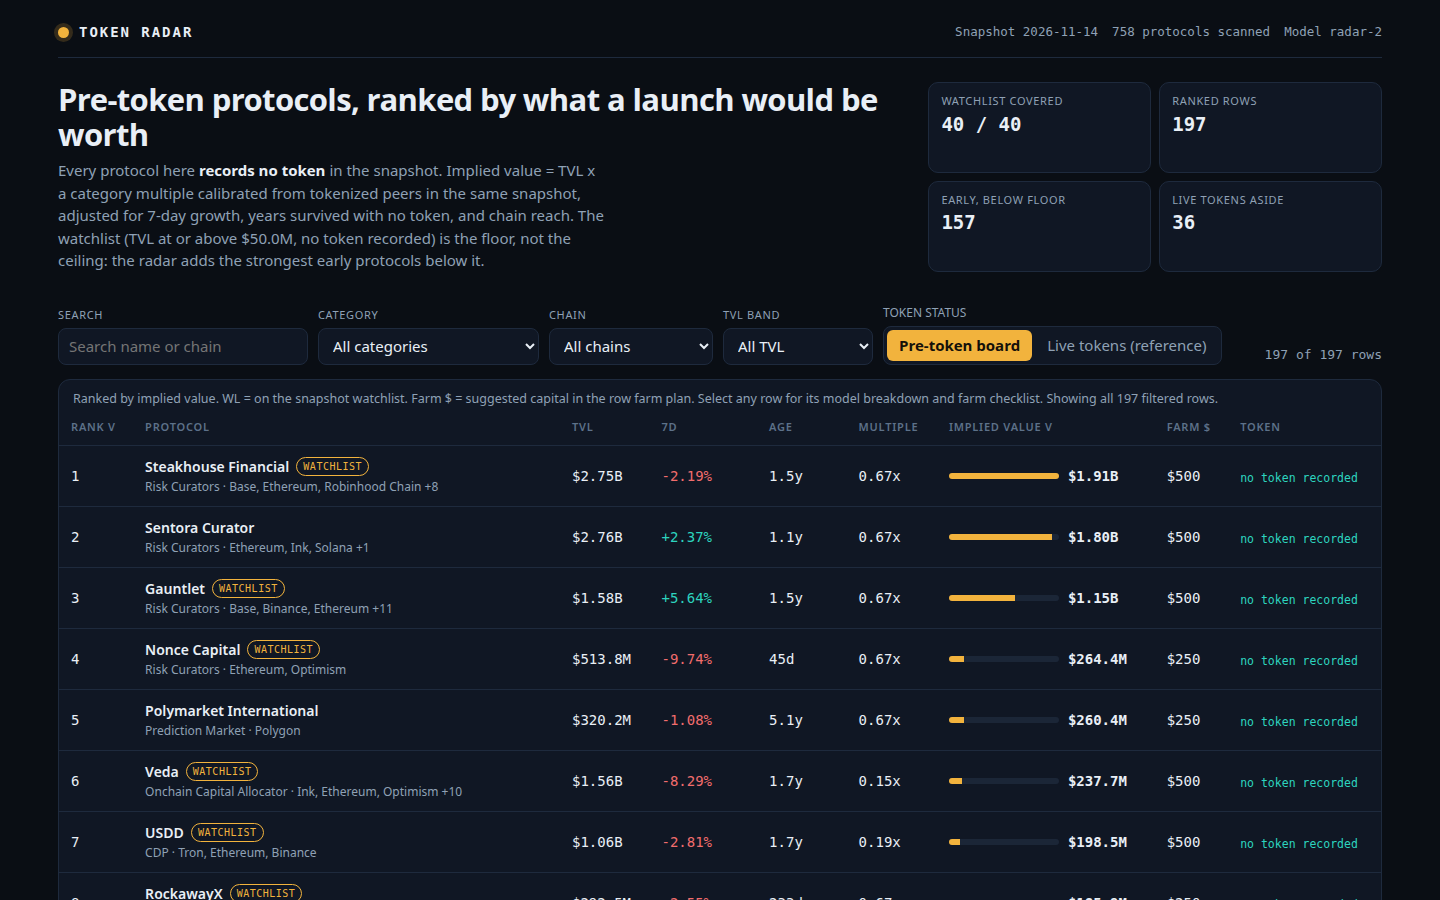
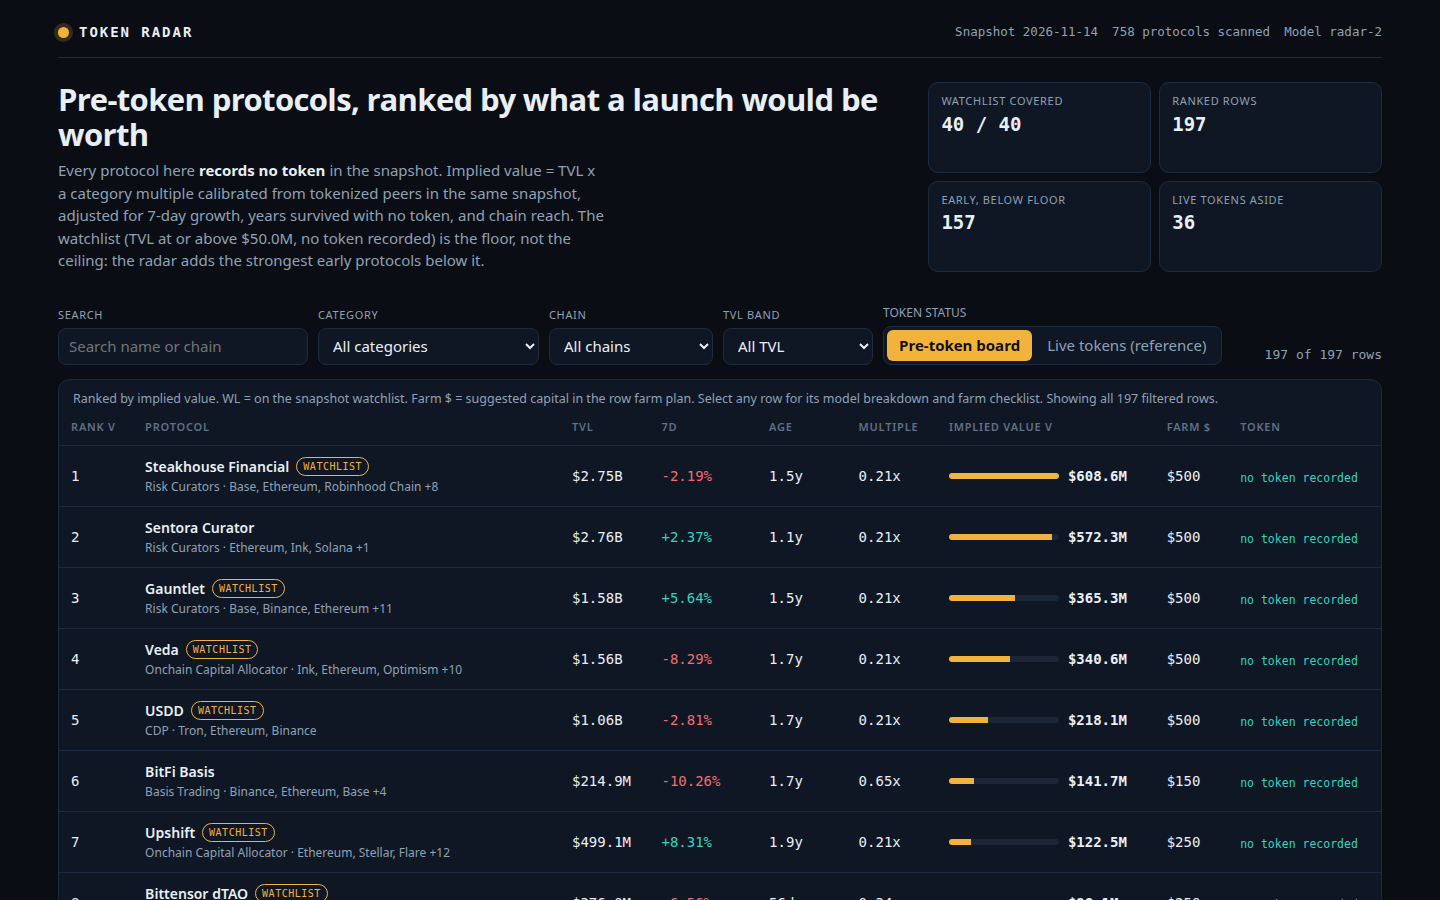
Anti-outlier minimum sample (5 peers, global fallback), variant farm plans, NaN guard

diff --git a/lib/model.ts b/lib/model.ts
@@ -13,9 +13,12 @@
 //    compute mcap / TVL for each, winsorize each ratio into [0.02, 2.50] so a
 //    single absurd print (a 400x prediction-market outlier, a 19x locker)
 //    cannot poison a whole category, and take the median. A category needs at
-//    least MIN_PEERS (4) tokenized peers for its own median; with fewer, the
-//    model falls back to the global winsorized median across all tokenized
-//    protocols, blended 50/50 with the category median when 1-3 peers exist.
+//    least MIN_PEERS (5) tokenized peers for its own median; with fewer than
+//    5, the category's own median is NOT used at all — the model falls back
+//    to the global winsorized median across all tokenized protocols. A
+//    category priced by one or two lucky peers is how a board ends up
+//    claiming a curator is worth 2.9x its TVL; the minimum sample exists to
+//    make that impossible.
 //    The final multiple is clamped into [0.05, 1.50]: a pre-token launch is
 //    not credibly worth more than 1.5x the TVL already locked in it, and no
 //    live category in this snapshot medians below 0.05.
@@ -74,7 +77,7 @@ const RATIO_FLOOR = 0.02;
 const RATIO_CAP = 2.5;
 const MULT_FLOOR = 0.05;
 const MULT_CAP = 1.5;
-const MIN_PEERS = 4;
+const MIN_PEERS = 5;
 const GROWTH_FLOOR = -40;
 const GROWTH_CAP = 80;
 const GROWTH_WEIGHT = 0.6;
@@ -115,13 +118,18 @@ export interface CategoryMultiple {
   category: string;
   multiple: number;
   peers: number;
-  source: 'category' | 'blend' | 'global';
+  source: 'category' | 'global';
 }
 
 /** The calibration table: one entry per category that appears on the board. */
+/** If a snapshot carried no tokenized protocol at all, calibration has no
+ *  evidence; this documented constant (near this snapshot's real global
+ *  median) is used rather than letting a median of zero values become NaN. */
+const NO_PEERS_FALLBACK = 0.2;
+
 export function calibrateMultiples(protocols: SnapshotProtocol[]): Map<string, CategoryMultiple> {
   const tokenized = protocols.filter((p) => p.mcap_usd !== null && p.mcap_usd > 0 && p.tvl_usd > 0);
-  const globalMedian = median(tokenized.map((p) => clamp(p.mcap_usd! / p.tvl_usd, RATIO_FLOOR, RATIO_CAP)));
+  const globalMedian = tokenized.length > 0 ? median(tokenized.map((p) => clamp(p.mcap_usd! / p.tvl_usd, RATIO_FLOOR, RATIO_CAP))) : NO_PEERS_FALLBACK;
   const byCategory = new Map<string, number[]>();
   for (const p of tokenized) {
     const key = p.category ?? 'Uncategorised';
@@ -138,13 +146,10 @@ export function calibrateMultiples(protocols: SnapshotProtocol[]): Map<string, C
     if (ratios.length >= MIN_PEERS) {
       multiple = median(ratios);
       source = 'category';
-    } else if (ratios.length >= 1) {
-      // Shrinkage: a category with 1-3 tokenized peers is weak evidence, so
-      // its median is weighted by its peer count against MIN_PEERS parts of
-      // the global median. One lucky peer can no longer set a category price.
-      multiple = (ratios.length * median(ratios) + MIN_PEERS * globalMedian) / (ratios.length + MIN_PEERS);
-      source = 'blend';
     } else {
+      // Minimum-sample rule: fewer than MIN_PEERS tokenized peers means the
+      // category's own median is not evidence, so it is not used — not even
+      // blended. The global winsorized median prices the category instead.
       multiple = globalMedian;
       source = 'global';
     }
@@ -365,10 +370,32 @@ function actionsFor(p: SnapshotProtocol, capital: number, chainLabel: string): C
   };
 }
 
+/** A stable per-protocol variant seed: the same slug always picks the same
+ *  plan shape, so two runs of the program write identical bytes, while
+ *  different protocols get different shapes, orders and phrasings. */
+function slugSeed(slug: string): number {
+  let h = 0;
+  for (let i = 0; i < slug.length; i++) h = (h * 31 + slug.charCodeAt(i)) % 9973;
+  return h;
+}
+
+/** Categories whose live products run points or epoch programmes a farmer
+ *  should explicitly track; the plan adds a dedicated step for them. */
+function hasPointsCulture(p: SnapshotProtocol): boolean {
+  const c = (p.category ?? '').toLowerCase();
+  return c.includes('dex') || c.includes('lend') || c.includes('derivative') || c.includes('perpetual') || c.includes('restak') || c.includes('yield') || c.includes('curator') || c.includes('allocator') || c.includes('basis');
+}
+
 /**
- * A protocol's farm plan: seven concrete steps, generated from its own
- * category, primary chain, TVL band and age. Every step carries a cost in
- * dollars computed from the primary chain's gas price and a time commitment.
+ * A protocol's farm plan, generated from its own category, primary chain,
+ * TVL band and age. The plan's SHAPE varies by protocol (a slug-seeded
+ * variant picks the step order, the phrasing bank and whether a dedicated
+ * points/epoch step is included, for 6-8 steps), because 200 identical
+ * skeletons would read as a template, not as 200 plans. Every step carries
+ * a cost in dollars computed from the primary chain's gas price and a time
+ * commitment, and the category steps describe that category's real
+ * mechanics: LP provision, borrow loops, perp volume, vault shares, basis
+ * funding, bridge routes.
  */
 export function farmSteps(p: SnapshotProtocol, age: number | null): string[] {
   const primary = p.chains.length > 0 ? p.chains[0]! : 'Ethereum';
@@ -379,15 +406,43 @@ export function farmSteps(p: SnapshotProtocol, age: number | null): string[] {
   const g = profile.gas_usd;
   const setupGas = Math.max(0.02, g * 2);
   const weeklyGas = Math.max(0.02, g * 2);
-  const steps = [
+  const variant = slugSeed(p.slug) % 3;
+
+  const setup = [
     `Set up one fresh wallet for ${p.name} only, back up its seed phrase offline, and label it with the protocol name and start date. Cost: about ${money(setupGas)} of gas for the first two transactions on ${profile.label}. Time: 10 minutes, once.`,
+    `Start with a clean wallet that has never farmed another protocol, so ${p.name} activity is attributable to one address; store the seed phrase offline. Cost: about ${money(setupGas)} of gas to activate it on ${profile.label}. Time: 10 minutes, once.`,
+    `Create a dedicated farming wallet for ${p.name} and write its address, the start date and the target hold of ${hold} days in a farm log before spending anything. Cost: about ${money(setupGas)} of gas for its first transactions on ${profile.label}. Time: 10 minutes, once.`,
+  ][variant]!;
+  const fund = [
     `Fund the wallet with ${money(capital + Math.max(5, g * 4))} of working funds on ${profile.label}: ${money(capital)} of farm capital plus a gas buffer of about ${money(Math.max(5, g * 4))}. Cost: about ${money(profile.fund_usd)} in bridge or withdrawal fees. Time: ${profile.fund_time}.`,
-    `${acts.core} Cost: ${money(capital)} of capital plus about ${money(Math.max(0.02, g * 3))} of gas for the approval and deposit transactions. Time: 20 minutes to set up.`,
-    `${acts.second} Cost: about ${money(Math.max(0.02, g * 2))} of gas on ${profile.label}. Time: 15 minutes.`,
-    `${acts.weekly} Cost: about ${money(weeklyGas)} of gas per week on ${profile.label}. Time: 15 minutes per week.`,
+    `Move ${money(capital)} of farm capital plus a ${money(Math.max(5, g * 4))} gas buffer onto ${profile.label} before touching the app, so a stuck bridge never leaves a half-open position. Cost: about ${money(profile.fund_usd)} in bridge or withdrawal fees. Time: ${profile.fund_time}.`,
+    `Get funds in place first: ${money(capital)} to deploy and about ${money(Math.max(5, g * 4))} reserved for gas on ${profile.label}. Cost: about ${money(profile.fund_usd)} in bridge or withdrawal fees. Time: ${profile.fund_time}.`,
+  ][variant]!;
+  const core = `${acts.core} Cost: ${money(capital)} of capital plus about ${money(Math.max(0.02, g * 3))} of gas for the approval and deposit transactions. Time: 20 minutes to set up.`;
+  const second = `${acts.second} Cost: about ${money(Math.max(0.02, g * 2))} of gas on ${profile.label}. Time: 15 minutes.`;
+  const weekly = `${acts.weekly} Cost: about ${money(weeklyGas)} of gas per week on ${profile.label}. Time: 15 minutes per week.`;
+  const points = `Open ${p.name}'s own points, seasons or rewards page if it runs one, screenshot the wallet's standing, and repeat that check every epoch boundary so a missed claim window never costs the whole farm. Cost: no fee to check; about ${money(Math.max(0.02, g))} of gas only if a claim transaction is needed. Time: 10 minutes per epoch.`;
+  const holdStep = [
     `Hold the position for at least ${hold} days so the activity spans several weekly snapshots, and keep a farm log with the wallet address, every transaction hash and the running total spent. Cost: the ${money(capital)} stays deployed; expected total gas over the hold is about ${money(weeklyGas * Math.ceil(hold / 7) + setupGas)}. Time: ${hold} days, checked weekly.`,
+    `Leave the ${money(capital)} deployed for a minimum of ${hold} days: snapshots and points programmes reward duration, and an early exit usually forfeits the season. Log every transaction hash as you go. Cost: expected total gas over the hold is about ${money(weeklyGas * Math.ceil(hold / 7) + setupGas)}. Time: ${hold} days, checked weekly.`,
+    `Commit to ${hold} days before entering: that is the window this plan's weekly actions are sized for, and it spans enough snapshots for the activity to count as sustained use. Cost: the ${money(capital)} stays in the position; gas over the whole hold should total about ${money(weeklyGas * Math.ceil(hold / 7) + setupGas)}. Time: ${hold} days.`,
+  ][variant]!;
+  const exit = [
     `Exit or claim only through the link on ${p.name}'s own official page, and never pay a third party to claim for you. Cost: about ${money(Math.max(0.02, g * 2))} of gas to withdraw or claim on ${profile.label}. Time: 20 minutes, at the end of the hold.`,
-  ];
+    `When the hold ends, withdraw and claim only from ${p.name}'s official page — bookmark it on day one so a search-ad clone cannot intercept the claim. Cost: about ${money(Math.max(0.02, g * 2))} of gas on ${profile.label}. Time: 20 minutes.`,
+    `Close out deliberately: repay or unwind in the reverse order you entered, then claim from the official ${p.name} page only. Cost: about ${money(Math.max(0.02, g * 2))} of gas on ${profile.label}. Time: 20 minutes, at the end of the hold.`,
+  ][variant]!;
+
+  let steps: string[];
+  if (variant === 0) {
+    steps = [setup, fund, core, second, weekly, holdStep, exit];
+  } else if (variant === 1) {
+    steps = [fund, setup, core, weekly, second, holdStep, exit];
+    if (hasPointsCulture(p)) steps.splice(4, 0, points);
+  } else {
+    steps = [setup, fund, core, second, holdStep, weekly, exit];
+    if (hasPointsCulture(p)) steps.splice(5, 0, points);
+  }
   return steps.map((s) => (s.length > 600 ? `${s.slice(0, 596)}...` : s));
 }
 

diff --git a/dashboard/app.js b/dashboard/app.js
@@ -195,12 +195,12 @@
         el('td', { text: m.category }),
         el('td', { class: 'num', text: fmtX(m.multiple) }),
         el('td', { class: 'num', text: String(m.peers) }),
-        el('td', { class: 'sub', text: m.source === 'category' ? 'category median' : m.source === 'blend' ? 'shrunk toward global median' : 'global median fallback' }));
+        el('td', { class: 'sub', text: m.source === 'category' ? 'category median (5+ peers)' : 'global median fallback (under 5 peers)' }));
     });
     return el('section', { class: 'panel model' },
       el('h2', { text: 'How implied value is computed — model ' + D.model_version }),
       el('div', { class: 'formula', text: 'implied = round( TVL x category_multiple x growth_factor x maturity_factor x chain_factor )' }),
-      el('p', { class: 'sub', text: 'category_multiple: median mcap/TVL of tokenized peers in the same category, each ratio winsorized into [0.02, 2.50] so one absurd print cannot poison a category; a category needs 4+ peers for its own median; with 1-3 peers the median is shrunk toward the global median, weighted by peer count, so one lucky peer cannot set a category price; none falls back to the global median; the result is clamped to [0.05, 1.50]. Wrapped, staked and bridged products of tokens that already trade (WBTC, USDT0, canonical bridges) are excluded from the ranked board for the same reason the watchlist excludes them. growth_factor = 1 + clamp(change_7d, -40, +80)% x 0.60 (missing growth counts as 0). maturity_factor = 0.78 + min(age_days, 1825)/1825 x 0.44 (unknown age: 400-day proxy). chain_factor = 1 + min(chains - 1, 5) x 0.03. No protocol name is special-cased anywhere: one function scores every row, and each row stores its own breakdown.' }),
+      el('p', { class: 'sub', text: 'category_multiple: median mcap/TVL of tokenized peers in the same category, each ratio winsorized into [0.02, 2.50] so one absurd print cannot poison a category; a category needs at least 5 tokenized peers for its own median; with fewer than 5 its own median is not used at all and the global median prices the category instead, so one lucky peer can never set a category price; the result is clamped to [0.05, 1.50]. Wrapped, staked and bridged products of tokens that already trade (WBTC, USDT0, canonical bridges) are excluded from the ranked board for the same reason the watchlist excludes them. growth_factor = 1 + clamp(change_7d, -40, +80)% x 0.60 (missing growth counts as 0). maturity_factor = 0.78 + min(age_days, 1825)/1825 x 0.44 (unknown age: 400-day proxy). chain_factor = 1 + min(chains - 1, 5) x 0.03. No protocol name is special-cased anywhere: one function scores every row, and each row stores its own breakdown.' }),
       el('table', { class: 'mult-table' }, el('thead', null, el('tr', null, el('th', { scope: 'col', text: 'Category' }), el('th', { scope: 'col', text: 'Multiple' }), el('th', { scope: 'col', text: 'Tokenized peers' }), el('th', { scope: 'col', text: 'Derived as' }))), el('tbody', null, rows)),
       el('p', { class: 'sub', text: 'Implied value is this entry own model claim about a hypothetical launch, not a prediction that a token will exist or a price it would trade at. Protocols are described as recording no token, because the snapshot is a record, not proof.' }));
   }
@@ -224,7 +224,7 @@
       el('h3', { text: 'Model breakdown' }),
       el('div', { class: 'eq' },
         el('div', null, el('span', { text: 'TVL (snapshot)' }), el('b', { text: fmtUsd(r.tvl_usd) })),
-        el('div', null, el('span', { text: 'x category multiple (' + m.multiple_peers + (m.multiple_peers === 1 ? ' peer' : ' peers') + ', ' + (m.multiple_source === 'category' ? 'category median' : m.multiple_source === 'blend' ? 'shrunk toward global' : 'global fallback') + ')' }), el('b', { text: fmtX(m.category_multiple) })),
+        el('div', null, el('span', { text: 'x category multiple (' + m.multiple_peers + (m.multiple_peers === 1 ? ' peer' : ' peers') + ', ' + (m.multiple_source === 'category' ? 'category median' : 'global fallback, under 5 peers') + ')' }), el('b', { text: fmtX(m.category_multiple) })),
         el('div', null, el('span', { text: '= base value' }), el('b', { text: fmtUsd(m.base_value_usd) })),
         el('div', null, el('span', { text: 'x growth factor (7d ' + fmtPct(r.change_7d) + ')' }), el('b', { text: fmtX(m.growth_factor) })),
         el('div', null, el('span', { text: 'x maturity factor (age ' + fmtAge(r.age_days) + ')' }), el('b', { text: fmtX(m.maturity_factor) })),
